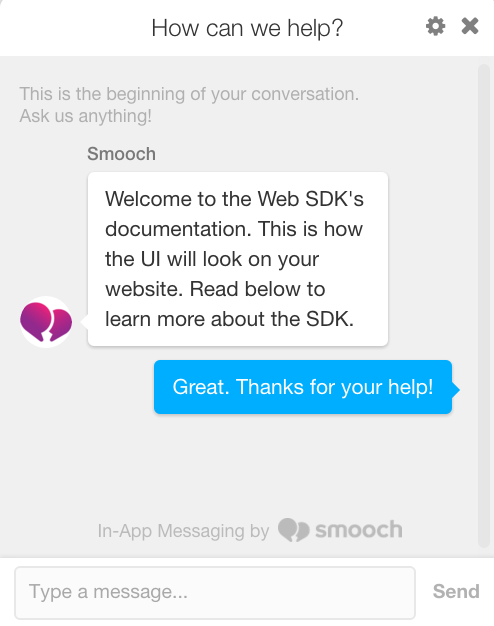
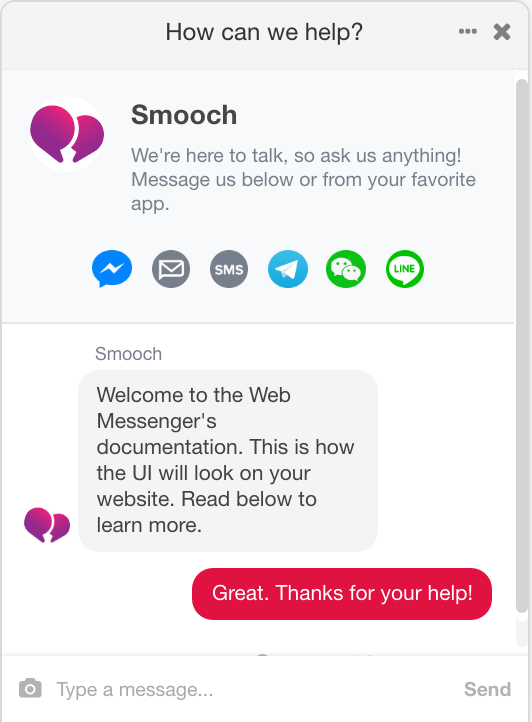
Update web messenger screenshots (#108)
* Update web messenger screenshots

* Remove customizable text from javascript docs

* PR comments

diff --git a/source/includes/customization/_string_customization_js.md b/source/includes/customization/_string_customization_js.md
@@ -1,6 +1,8 @@
 ## Strings customization
 
-Smooch lets you customize any strings it displays by overwriting its keys. Simply add the `customText` key in your `Smooch.init()` call and specify new values for the keys used in Smooch. You can find all available keys by browsing to the `defaultText` object in the source. If something is between `{}`, it's a variable and needs to stay in your customized text if you want to use it.
+Smooch lets you customize any strings it displays by overwriting its keys. Simply add the `customText` key in your `Smooch.init()` call and specify new values for the keys used in Smooch. You can find all available keys [here](https://github.com/smooch/smooch-js/blob/master/src/js/reducers/ui-reducer.js#L6). If some text is between `{}`, or if there is an html tag such as `<a>`, it needs to stay in your customized text.
+
+For example:
 
 ```js
 Smooch.init({
@@ -9,22 +11,6 @@ Smooch.init({
         headerText: 'How can we help?',
         inputPlaceholder: 'Type a message...',
         sendButtonText: 'Send',
-        introText: 'This is the beginning of your conversation.<br/> Ask us anything!',
-        settingsText: 'You can leave us your email so that we can get back to you this way.',
-        settingsReadOnlyText: 'We\'ll get back to you at this email address if we missed you.',
-        settingsInputPlaceholder: 'Your email address',
-        settingsSaveButtonText: 'Save',
-        settingsHeaderText: 'Email Settings',
-        settingsNotificationText: 'In case we\'re slow to respond you can <a href data-ui-settings-link>leave us your email</a>.',
-        actionPaymentError: 'An error occurred while processing the card. <br> Please try again or use a different card.',
-        actionPaymentCompleted: 'Payment Completed',
-        messageError: 'An error occured while sending your message. Please try again.',
-        invalidFileError: 'Sorry, but only images are supported currently. Please choose a file with a supported extension (jpg, jpeg, png, gif, or bmp).',
-        messageIndicatorTitleSingular: '({count}) New message',
-        messageIndicatorTitlePlural: '({count}) New messages'
     }
 });
 ```
-<aside>
-In order to have a working link in `settingsNotificationText`, you must have an `a` tag with a `data-ui-settings-link` attribute on it.
-</aside>

diff --git a/source/includes/actions/_sending_action_buttons_web.md b/source/includes/actions/_sending_action_buttons_web.md
@@ -1,3 +1,5 @@
+<span class="half-width-img">![Action buttons](/images/action_button_web.png)</span>
+
 ## Links
 
 You can send your users an action button with the following syntax:
@@ -10,7 +12,6 @@ This works from any channel you configured to use with Smooch.
 
 When the user taps your button, it'll open whatever link you specified in a new tab.
 
-<span class="half-width-img">![Action buttons](/images/action_button_web.png)</span>
 
 <aside class="notice">
 Buttons will always be appended at the bottom of your message bubble.
